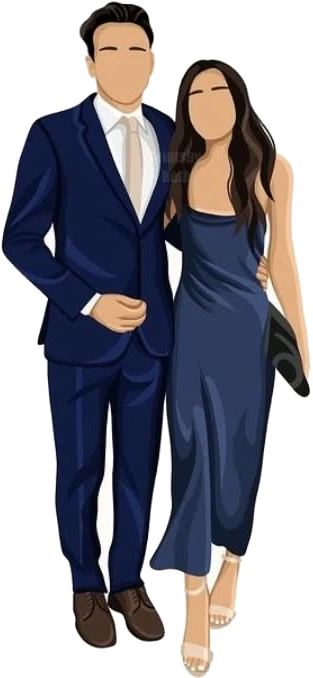
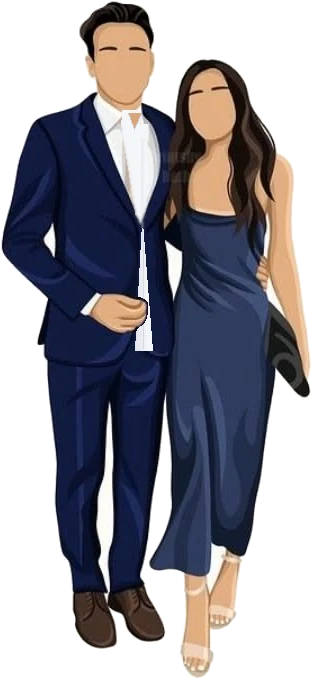
Dress code as suggestion, open-jacket no-tie look, RSVP WhatsApp number

Changed region(s): [[0.3738, 0.1549, 0.4888, 0.5265]]

diff --git a/index.html b/index.html
@@ -148,6 +148,7 @@ section{position:relative;overflow:hidden;padding:72px 28px;text-align:center}
 .dress .wrap{display:grid;grid-template-columns:120px 1fr;gap:26px;align-items:center;text-align:left;max-width:400px;margin:26px auto 0}
 .dress .couple{position:relative;padding:10px 0}
 .dress .couple::before{content:"";position:absolute;inset:-10% -40%;background:radial-gradient(ellipse at center,rgba(219,233,247,.95) 0%,rgba(219,233,247,.55) 40%,rgba(219,233,247,0) 70%);z-index:0}
+.dress .sug{position:relative;z-index:1;display:block;margin:-4px auto 0;width:max-content;font:600 9px var(--sans);letter-spacing:.2em;text-transform:uppercase;color:var(--navy);background:#fff;border-radius:999px;padding:5px 10px;box-shadow:0 3px 10px rgba(0,0,0,.3)}
 .dress .couple img{position:relative;z-index:1;width:100%;filter:drop-shadow(0 6px 10px rgba(10,26,58,.35))}
 .dress .tag img.t{width:110px;transform:rotate(-6deg);filter:drop-shadow(0 8px 16px rgba(0,0,0,.4))}
 .dress .tag img.b{position:absolute;width:80px;left:15px;top:-24px}
@@ -372,7 +373,7 @@ body.editing #lang{display:none}
     <p class="kicker reveal">What to wear</p>
     <h3 class="section-title reveal">Dress Code</h3>
     <div class="wrap reveal">
-      <div class="couple"><img src="assets/couple.webp" alt="Couple in semi-formal attire in blue tones"></div>
+      <div class="couple"><img src="assets/couple.webp?v=2" alt="Couple in semi-formal attire in blue tones"><span class="sug">Suggested look</span></div>
       <div>
         <h4>Semi-formal</h4>
         <p class="desc">Get inspired by winter tones:</p>
@@ -382,7 +383,8 @@ body.editing #lang{display:none}
         <p class="swatch-names">Ice blue · Silver · White · Midnight blue</p>
       </div>
     </div>
-    <p class="note reveal">Shine like December’s first snowfall.</p>
+    <p class="note reveal">This is only a suggestion. If you already have your outfit, you’re all set!</p>
+    <p class="note reveal" style="margin-top:6px">Shine like December’s first snowfall.</p>
   </section>
 
   <!-- UBICACIÓN -->
@@ -461,7 +463,7 @@ body.editing #lang{display:none}
 const CONFIG = {
   // Número de WhatsApp para confirmar (con código de país, sin + ni espacios). Ej: '50761234567'.
   // Si se deja vacío, WhatsApp abre para elegir el contacto.
-  whatsapp: '',
+  whatsapp: '50762065753',
   eventStart: '2026-12-20T17:30:00-05:00',
   eventEnd:   '2026-12-20T22:00:00-05:00',
 };
@@ -488,7 +490,9 @@ Object.assign(ES, {
   'Open invitation': 'Abrir invitación',
   'A night to remember': 'Una noche para recordar',
   'Location': 'Ubicación',
-  'Happy Holidays!': '¡Felices Fiestas!'
+  'Happy Holidays!': '¡Felices Fiestas!',
+  'Suggested look': 'Sugerencia',
+  'This is only a suggestion. If you already have your outfit, you’re all set!': 'Es solo una sugerencia. Si ya tienes tu atuendo, ¡perfecto!'
 });
 let LANG = 'en';
 const T = (en, es) => LANG === 'es' ? es : en;
